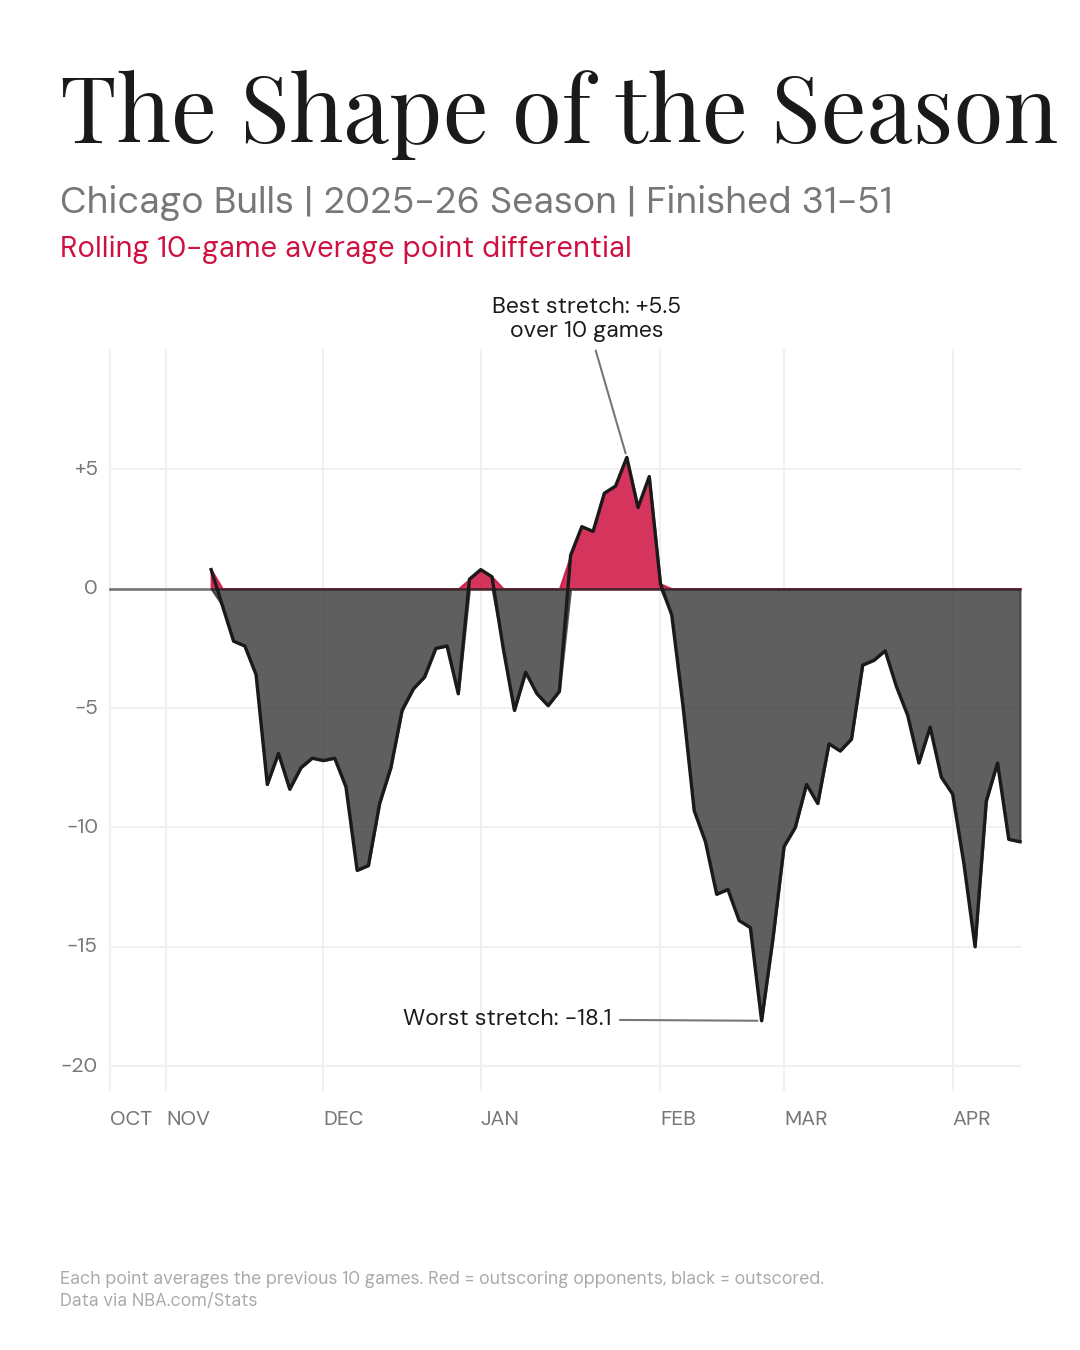
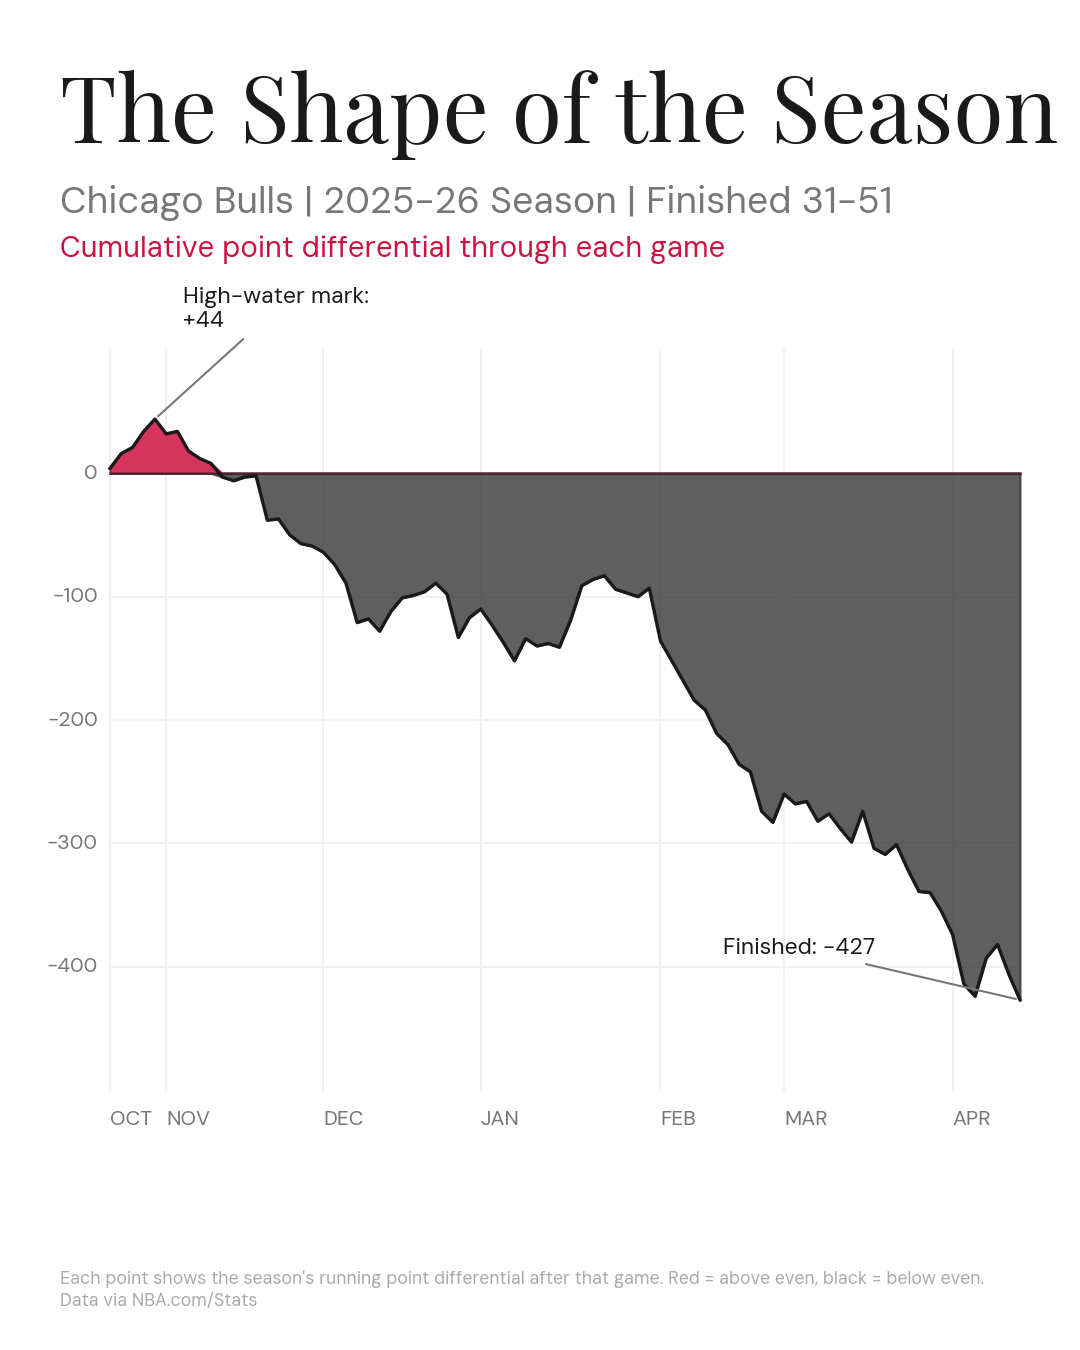
feat: add "Shape of the Record" prototype (cumulative record + point diff)
Adds cumulative_record_delta and cumulative_point_differential to bulls/analysis (exported + tested) plus a "Shape of the Record" option in scripts/prototypes/three_options.py, with its rendered mock. This work predated the strategy-doc session; committed on its own.

diff --git a/scripts/prototypes/three_options.py b/scripts/prototypes/three_options.py
@@ -13,6 +13,7 @@ import matplotlib.pyplot as plt
 import numpy as np
 import pandas as pd
 
+from bulls.analysis import cumulative_point_differential, cumulative_record_delta
 from bulls.data.fetch import get_player_headshot
 from bulls.graphics.feed import (
     DEFAULT_DPI,
@@ -229,19 +230,20 @@ def build_month_grid():
 # ------------------------------------------------------------ C. Season timeline
 def build_timeline():
     g = games.sort_values("GAME_DATE").reset_index(drop=True)
-    g["roll"] = g["PLUS_MINUS"].rolling(10).mean()
+    g = cumulative_point_differential(g)
     wins, losses = int((g["WL"] == "W").sum()), int((g["WL"] == "L").sum())
 
     fig, ax = canvas(
         "The Shape of the Season",
         f"Chicago Bulls | 2025-26 Season | Finished {wins}-{losses}",
-        "Rolling 10-game average point differential",
+        "Cumulative point differential through each game",
     )
 
     px0, px1, py0, py1 = 110, 1020, 260, 1000
     n = len(g)
-    lo = float(np.floor(g["roll"].min())) - 2
-    hi = float(np.ceil(g["roll"].max())) + 4
+    metric = "cum_point_diff"
+    lo = float(np.floor(g[metric].min() / 50) * 50) - 50
+    hi = float(np.ceil(g[metric].max() / 50) * 50) + 50
 
     def X(i):
         return px0 + i / (n - 1) * (px1 - px0)
@@ -257,7 +259,9 @@ def build_timeline():
                 fontproperties=_fp_body(weight="bold"))
         ax.plot([X(idx), X(idx)], [py0, py1], color="#F0F0F0", lw=1.0, zorder=1)
 
-    for v in [v for v in range(-20, 15, 5) if v != 0 and lo < v < hi]:
+    tick_start = int(np.ceil(lo / 100) * 100)
+    tick_end = int(np.floor(hi / 100) * 100)
+    for v in [v for v in range(tick_start, tick_end + 1, 100) if v != 0 and lo < v < hi]:
         ax.plot([px0, px1], [Y(v), Y(v)], color="#F0F0F0", lw=1.0, zorder=1)
         ax.text(px0 - 12, Y(v), f"{v:+d}", ha="right", va="center", fontsize=10,
                 color=MUTED, fontproperties=_fp_body())
@@ -266,10 +270,9 @@ def build_timeline():
             fontproperties=_fp_body())
 
     xs = [X(i) for i in range(n)]
-    ys = [Y(v) if not np.isnan(v) else np.nan for v in g["roll"]]
-    valid = ~g["roll"].isna()
+    valid = ~g[metric].isna()
     xv = np.array(xs)[valid]
-    yv = np.array(g["roll"][valid])
+    yv = np.array(g[metric][valid])
 
     ax.fill_between(xv, Y(0), [Y(v) for v in np.clip(yv, 0, None)],
                     color=RED, alpha=0.85, zorder=3)
@@ -277,31 +280,133 @@ def build_timeline():
                     color="#2A2A2A", alpha=0.75, zorder=3)
     ax.plot(xv, [Y(v) for v in yv], color=INK, lw=1.6, zorder=4)
 
-    # Data-derived annotations: best and worst 10-game stretch
-    i_best = int(g["roll"].idxmax())
-    i_worst = int(g["roll"].idxmin())
-    best_v, worst_v = g["roll"].iloc[i_best], g["roll"].iloc[i_worst]
+    # Data-derived annotations: season high-water mark and final margin
+    i_best = int(g[metric].idxmax())
+    i_final = len(g) - 1
+    best_v = g[metric].iloc[i_best]
+    final_v = g[metric].iloc[i_final]
 
-    ax.annotate(f"Best stretch: {best_v:+.1f}\nover 10 games",
-                xy=(X(i_best), Y(best_v)), xytext=(X(i_best) - 40, Y(best_v) + 120),
-                ha="center", fontsize=11, color=INK,
+    ax.annotate(f"High-water mark:\n{best_v:+.0f}",
+                xy=(X(i_best), Y(best_v)), xytext=(X(i_best) + 28, Y(best_v) + 92),
+                ha="left", fontsize=11, color=INK,
                 fontproperties=_fp_body(weight="bold"),
                 arrowprops=dict(arrowstyle="-", color=MUTED, lw=1.0), zorder=6)
-    ax.annotate(f"Worst stretch: {worst_v:+.1f}",
-                xy=(X(i_worst), Y(worst_v)), xytext=(X(i_worst) - 150, Y(worst_v) - 4),
+    ax.annotate(f"Finished: {final_v:+.0f}",
+                xy=(X(i_final), Y(final_v)), xytext=(X(i_final) - 145, Y(final_v) + 46),
                 ha="right", fontsize=11, color=INK,
                 fontproperties=_fp_body(weight="bold"),
                 arrowprops=dict(arrowstyle="-", color=MUTED, lw=1.0), zorder=6)
 
-    ax.text(60, 62, "Each point averages the previous 10 games. Red = outscoring "
-            "opponents, black = outscored.",
+    ax.text(60, 62, "Each point shows the season's running point differential after that game. "
+            "Red = above even, black = below even.",
+            ha="left", va="bottom", fontsize=8.5, color=FAINT, fontproperties=_fp_body())
+    return fig
+
+
+def build_record_timeline():
+    g = games.sort_values("GAME_DATE").reset_index(drop=True)
+    g = cumulative_record_delta(g)
+    wins, losses = int((g["WL"] == "W").sum()), int((g["WL"] == "L").sum())
+
+    fig, ax = canvas(
+        "The Shape of the Record",
+        f"Chicago Bulls | 2025-26 Season | Finished {wins}-{losses}",
+        "Games over/under .500 through each game",
+    )
+
+    px0, px1, py0, py1 = 110, 1020, 260, 1000
+    n = len(g)
+    metric = "games_over_500"
+    lo = float(np.floor(g[metric].min() / 5) * 5) - 5
+    hi = float(np.ceil(g[metric].max() / 5) * 5) + 5
+
+    def X(i):
+        return px0 + i / n * (px1 - px0)
+
+    def Y(v):
+        return py0 + (v - lo) / (hi - lo) * (py1 - py0)
+
+    g["month"] = g["GAME_DATE"].str[:7]
+    for m, idx in g.groupby("month").apply(lambda d: d.index.min()).items():
+        lab = pd.Timestamp(m + "-01").strftime("%b").upper()
+        ax.text(X(idx), py0 - 20, lab, ha="left", va="top", fontsize=10, color=MUTED,
+                fontproperties=_fp_body(weight="bold"))
+        ax.plot([X(idx), X(idx)], [py0, py1], color="#F0F0F0", lw=1.0, zorder=1)
+
+    tick_start = int(np.ceil(lo / 5) * 5)
+    tick_end = int(np.floor(hi / 5) * 5)
+    for v in [v for v in range(tick_start, tick_end + 1, 5) if v != 0 and lo < v < hi]:
+        ax.plot([px0, px1], [Y(v), Y(v)], color="#F0F0F0", lw=1.0, zorder=1)
+        ax.text(px0 - 12, Y(v), f"{v:+d}", ha="right", va="center", fontsize=10,
+                color=MUTED, fontproperties=_fp_body())
+    ax.plot([px0, px1], [Y(0), Y(0)], color=MUTED, lw=1.3, zorder=2)
+    ax.text(px0 - 12, Y(0), ".500", ha="right", va="center", fontsize=10, color=MUTED,
+            fontproperties=_fp_body())
+
+    x_path = np.array([X(i) for i in range(n + 1)])
+    y_path = np.concatenate(([0], g[metric].to_numpy()))
+
+    ax.fill_between(x_path, Y(0), Y(np.clip(y_path, 0, None)),
+                    color=RED, alpha=0.85, zorder=3)
+    ax.fill_between(x_path, Y(0), Y(np.clip(y_path, None, 0)),
+                    color="#2A2A2A", alpha=0.75, zorder=3)
+    ax.plot(x_path, Y(y_path), color=INK, lw=1.6, zorder=4)
+
+    i_best = int(g[metric].idxmax())
+    i_final = len(g) - 1
+    best_v = g[metric].iloc[i_best]
+    final_v = g[metric].iloc[i_final]
+
+    ax.annotate(f"5-0 start:\nHigh-water {best_v:+.0f}",
+                xy=(X(i_best + 1), Y(best_v)), xytext=(X(i_best + 1) + 28, Y(best_v) + 96),
+                ha="left", fontsize=11, color=INK,
+                fontproperties=_fp_body(weight="bold"),
+                arrowprops=dict(arrowstyle="-", color=MUTED, lw=1.0), zorder=6)
+
+    dec_run_i = int(g[(g["GAME_DATE"] == "2025-12-26")].index[0])
+    ax.annotate("5-game Dec. run:\nBack to .500",
+                xy=(X(dec_run_i + 1), Y(g[metric].iloc[dec_run_i])),
+                xytext=(X(dec_run_i + 1) - 20, Y(3.4)),
+                ha="center", fontsize=11, color=INK,
+                fontproperties=_fp_body(weight="bold"),
+                arrowprops=dict(arrowstyle="-", color=MUTED, lw=1.0), zorder=6)
+
+    over_500 = g[g[metric] > 0]
+    if not over_500.empty:
+        i_last_over = int(over_500.index.max())
+        last_over_ts = pd.Timestamp(g["GAME_DATE"].iloc[i_last_over])
+        last_over_date = f"{last_over_ts.strftime('%b')}. {last_over_ts.day}"
+        ax.annotate(f"4 straight in Jan.:\nLast over .500: {last_over_date}",
+                    xy=(X(i_last_over + 1), Y(g[metric].iloc[i_last_over])),
+                    xytext=(X(i_last_over + 1) + 88, Y(3) + 24),
+                    ha="left", fontsize=11, color=INK,
+                    fontproperties=_fp_body(weight="bold"),
+                    arrowprops=dict(arrowstyle="-", color=MUTED, lw=1.0), zorder=6)
+
+    feb_skid_i = int(g[(g["GAME_DATE"] == "2026-02-26")].index[0])
+    ax.annotate("11-game skid:\nFeb. 1-26",
+                xy=(X(feb_skid_i + 1), Y(g[metric].iloc[feb_skid_i])),
+                xytext=(X(feb_skid_i + 1) - 42, Y(-15.3)),
+                ha="right", fontsize=11, color=INK,
+                fontproperties=_fp_body(weight="bold"),
+                arrowprops=dict(arrowstyle="-", color=MUTED, lw=1.0), zorder=6)
+
+    ax.annotate(f"Finished: {final_v:+.0f}",
+                xy=(X(i_final + 1), Y(final_v)), xytext=(X(i_final + 1) - 145, Y(final_v) + 48),
+                ha="right", fontsize=11, color=INK,
+                fontproperties=_fp_body(weight="bold"),
+                arrowprops=dict(arrowstyle="-", color=MUTED, lw=1.0), zorder=6)
+
+    ax.text(60, 62, "Each point shows the season record relative to .500. "
+            "Red = above .500, gray = below .500.",
             ha="left", va="bottom", fontsize=8.5, color=FAINT, fontproperties=_fp_body())
     return fig
 
 
 for fn, name in ((build_quadrant, "2026-07-04-option-a-impact-availability-quadrant.png"),
                  (build_month_grid, "2026-07-04-option-b-month-by-month-grid.png"),
-                 (build_timeline, "2026-07-04-option-c-season-shape-timeline.png")):
+                 (build_timeline, "2026-07-04-option-c-season-shape-timeline.png"),
+                 (build_record_timeline, "2026-07-09-season-record-shape.png")):
     fig = fn()
     save_feed_post(fig, OUT / name)
     plt.close(fig)

diff --git a/tests/test_analysis.py b/tests/test_analysis.py
@@ -8,6 +8,8 @@ from bulls.analysis import (
     top_performers,
     efficiency_metrics,
     game_efficiency,
+    cumulative_point_differential,
+    cumulative_record_delta,
     rolling_averages,
     consistency_score,
     points_per_shot,
@@ -439,6 +441,70 @@ class TestRollingAverages:
 
         assert 'points_roll_3' in result.columns
         assert 'nonexistent_roll_3' not in result.columns
+
+
+class TestCumulativePointDifferential:
+    """Tests for cumulative_point_differential function."""
+
+    def test_adds_running_point_differential(self):
+        """Should add a running sum of game point differential."""
+        fake_games = pd.DataFrame({
+            'PLUS_MINUS': [4, -10, 7, -3],
+        })
+
+        result = cumulative_point_differential(fake_games)
+
+        assert result['cum_point_diff'].tolist() == [4, -6, 1, -2]
+
+    def test_handles_empty_dataframe(self):
+        """Should handle empty input gracefully."""
+        empty_df = pd.DataFrame()
+
+        result = cumulative_point_differential(empty_df)
+
+        assert result.empty
+
+    def test_skips_missing_margin_column(self):
+        """Should leave data unchanged when the margin column is missing."""
+        fake_games = pd.DataFrame({
+            'PTS': [120, 100],
+        })
+
+        result = cumulative_point_differential(fake_games)
+
+        assert result.equals(fake_games)
+
+
+class TestCumulativeRecordDelta:
+    """Tests for cumulative_record_delta function."""
+
+    def test_adds_games_over_500(self):
+        """Should add a running wins-minus-losses column."""
+        fake_games = pd.DataFrame({
+            'WL': ['W', 'W', 'L', 'L', 'W'],
+        })
+
+        result = cumulative_record_delta(fake_games)
+
+        assert result['games_over_500'].tolist() == [1, 2, 1, 0, 1]
+
+    def test_handles_empty_dataframe(self):
+        """Should handle empty input gracefully."""
+        empty_df = pd.DataFrame()
+
+        result = cumulative_record_delta(empty_df)
+
+        assert result.empty
+
+    def test_skips_missing_result_column(self):
+        """Should leave data unchanged when the result column is missing."""
+        fake_games = pd.DataFrame({
+            'PLUS_MINUS': [5, -8],
+        })
+
+        result = cumulative_record_delta(fake_games)
+
+        assert result.equals(fake_games)
 
 
 class TestConsistencyScore:

diff --git a/bulls/analysis/stats.py b/bulls/analysis/stats.py
@@ -277,6 +277,54 @@ def rolling_averages(
     return result
 
 
+def cumulative_point_differential(
+    games: pd.DataFrame,
+    margin_col: str = 'PLUS_MINUS',
+    output_col: str = 'cum_point_diff',
+) -> pd.DataFrame:
+    """
+    Add a running point differential column to an already-ordered game log.
+
+    Args:
+        games: Team game log ordered in the direction to chart
+        margin_col: Column containing per-game point differential
+        output_col: Name for the cumulative point differential column
+
+    Returns:
+        DataFrame with the cumulative point differential column added.
+    """
+    if games.empty or margin_col not in games.columns:
+        return games.copy()
+
+    result = games.copy()
+    result[output_col] = result[margin_col].fillna(0).cumsum()
+    return result
+
+
+def cumulative_record_delta(
+    games: pd.DataFrame,
+    result_col: str = 'WL',
+    output_col: str = 'games_over_500',
+) -> pd.DataFrame:
+    """
+    Add a running wins-minus-losses column to an already-ordered game log.
+
+    Args:
+        games: Team game log ordered in the direction to chart
+        result_col: Column containing W/L game results
+        output_col: Name for the cumulative record delta column
+
+    Returns:
+        DataFrame with the games-over-.500 column added.
+    """
+    if games.empty or result_col not in games.columns:
+        return games.copy()
+
+    result = games.copy()
+    result[output_col] = result[result_col].map({'W': 1, 'L': -1}).fillna(0).cumsum()
+    return result
+
+
 def consistency_score(
     player_games: pd.DataFrame,
     metrics: Optional[List[str]] = None,

diff --git a/bulls/analysis/__init__.py b/bulls/analysis/__init__.py
@@ -6,6 +6,8 @@ from bulls.analysis.stats import (
     top_performers,
     efficiency_metrics,
     game_efficiency,
+    cumulative_point_differential,
+    cumulative_record_delta,
     rolling_averages,
     consistency_score,
     detailed_zones,